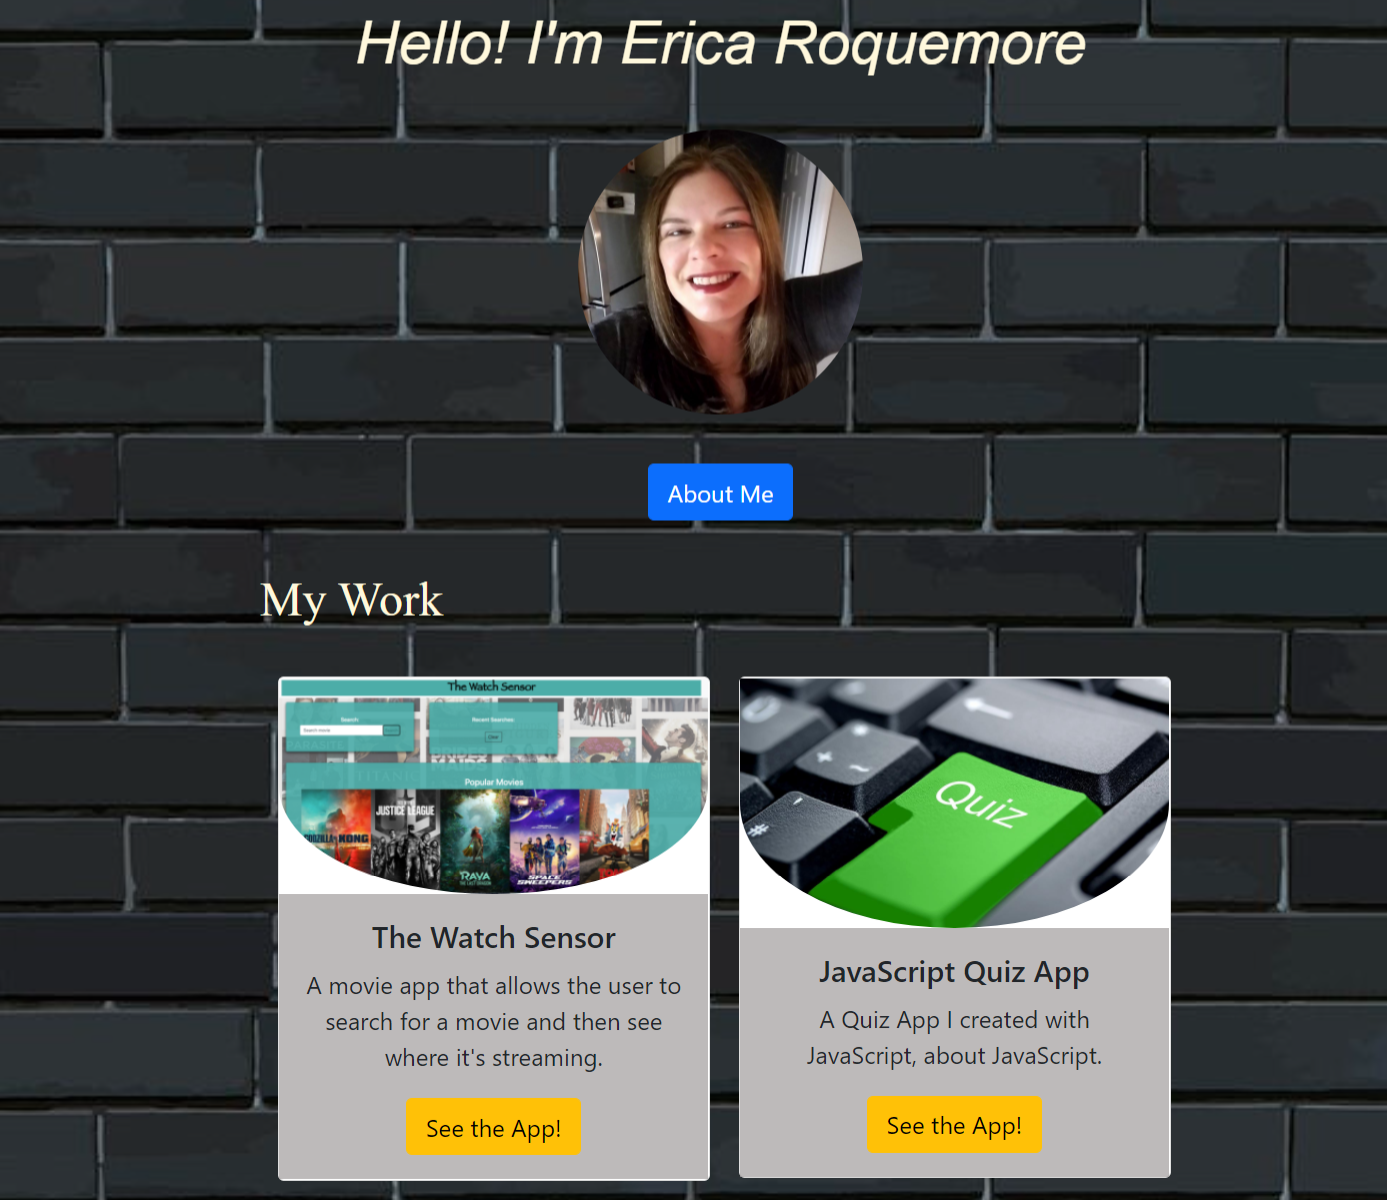
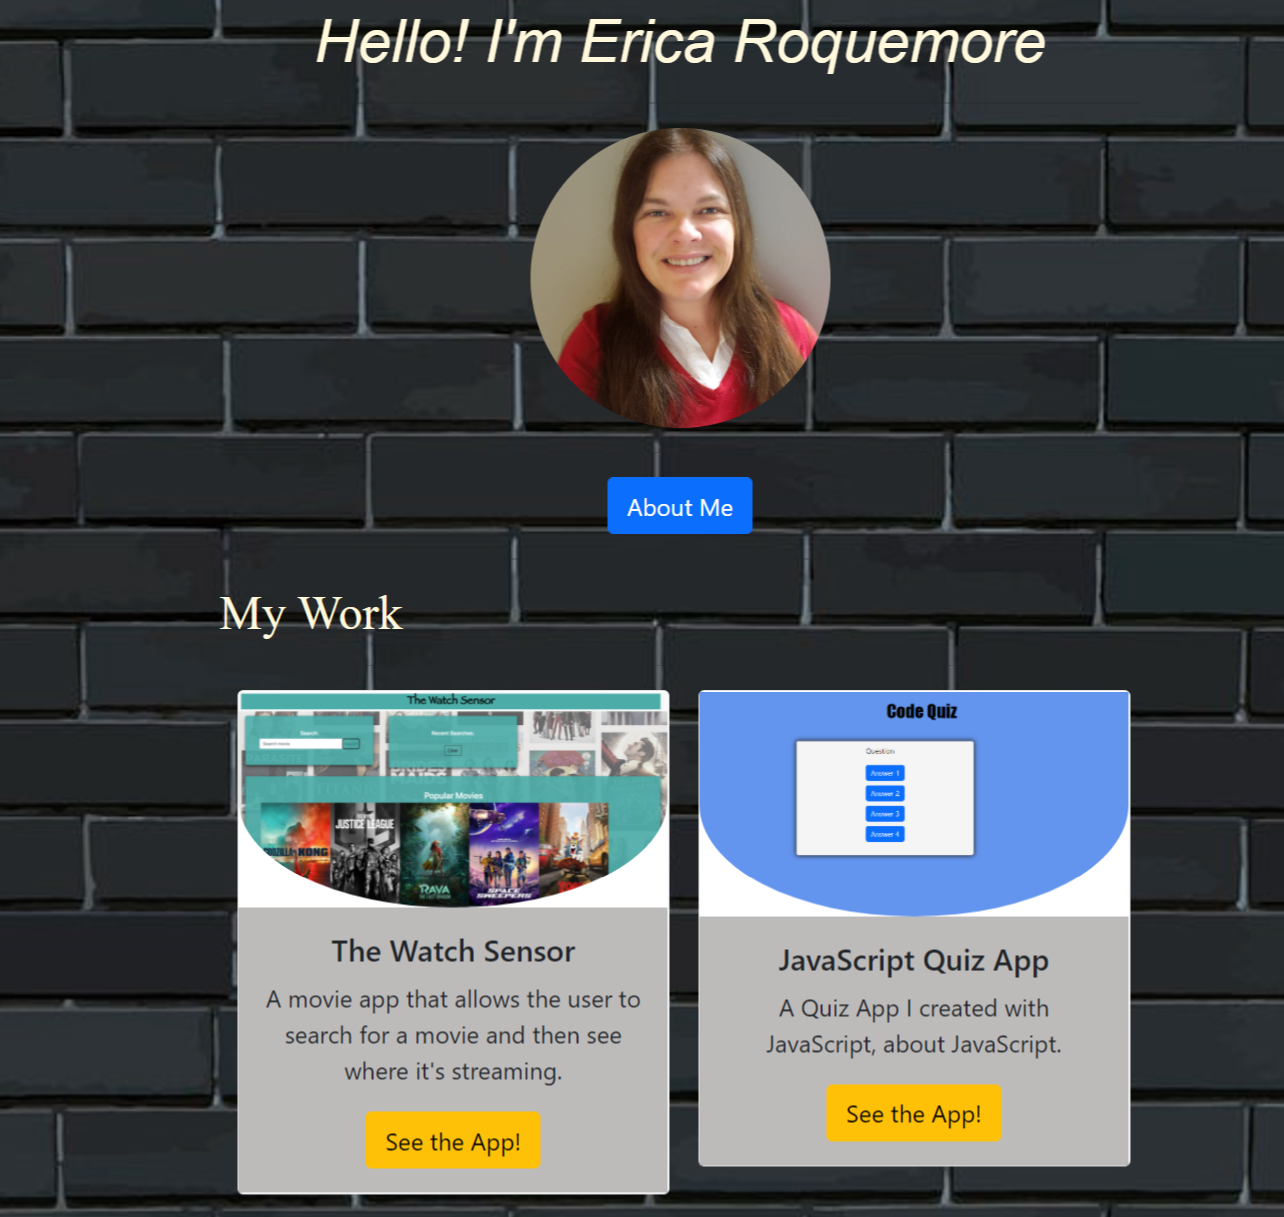
updated images

diff --git a/index.html b/index.html
@@ -62,7 +62,7 @@
       <div class="col">
         <!-- Password Generator Card -->
         <div class="card" style="width: 18rem;">
-         <img src="./assets/images/password.jpg" class="card-img-top" alt="...">
+         <img src="./assets/images/password.png" class="card-img-top" alt="...">
          <div class="card-body">
            <h5 class="card-title">Password Generator</h5>
            <p class="card-text">A random Password Generator App.</p>
@@ -74,7 +74,7 @@
       <div class="col"> 
         <!-- JavaScript Quiz App Card -->
         <div class="card" style="width: 18rem;">
-          <img src="./assets/images/quiz.jpg" class="card-img-top" alt="...">
+          <img src="./assets/images/quiz.png" class="card-img-top" alt="...">
           <div class="card-body">
             <h5 class="card-title">JavaScript Quiz App</h5>
             <p class="card-text">A Quiz App I created with JavaScript, about JavaScript.</p>

diff --git a/README.md b/README.md
@@ -2,9 +2,10 @@
 
 My updated portfolio showcasing the skills that I've acquired thus far in my education.
 
-# Screenshot
+# Screenshots
 
  ![](./assets/images/portfolio2.png)
+ ![](./assets/images/portfolio3.png)
 
 # Deployed Application
 
